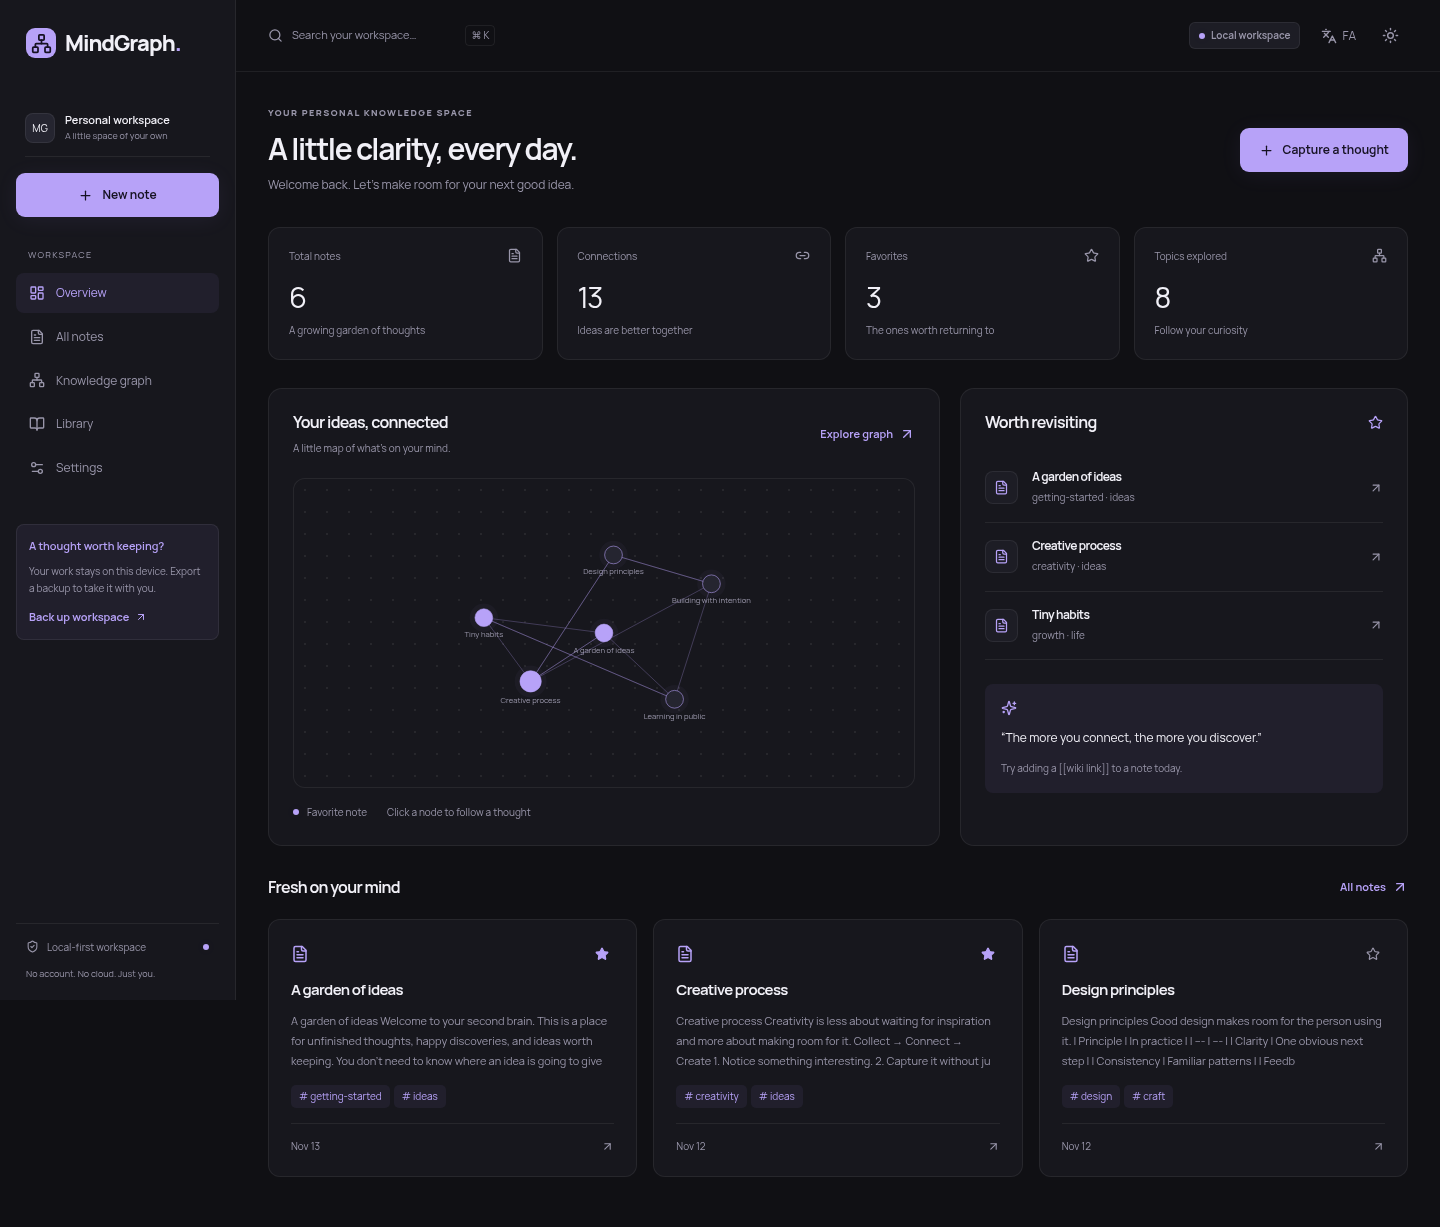
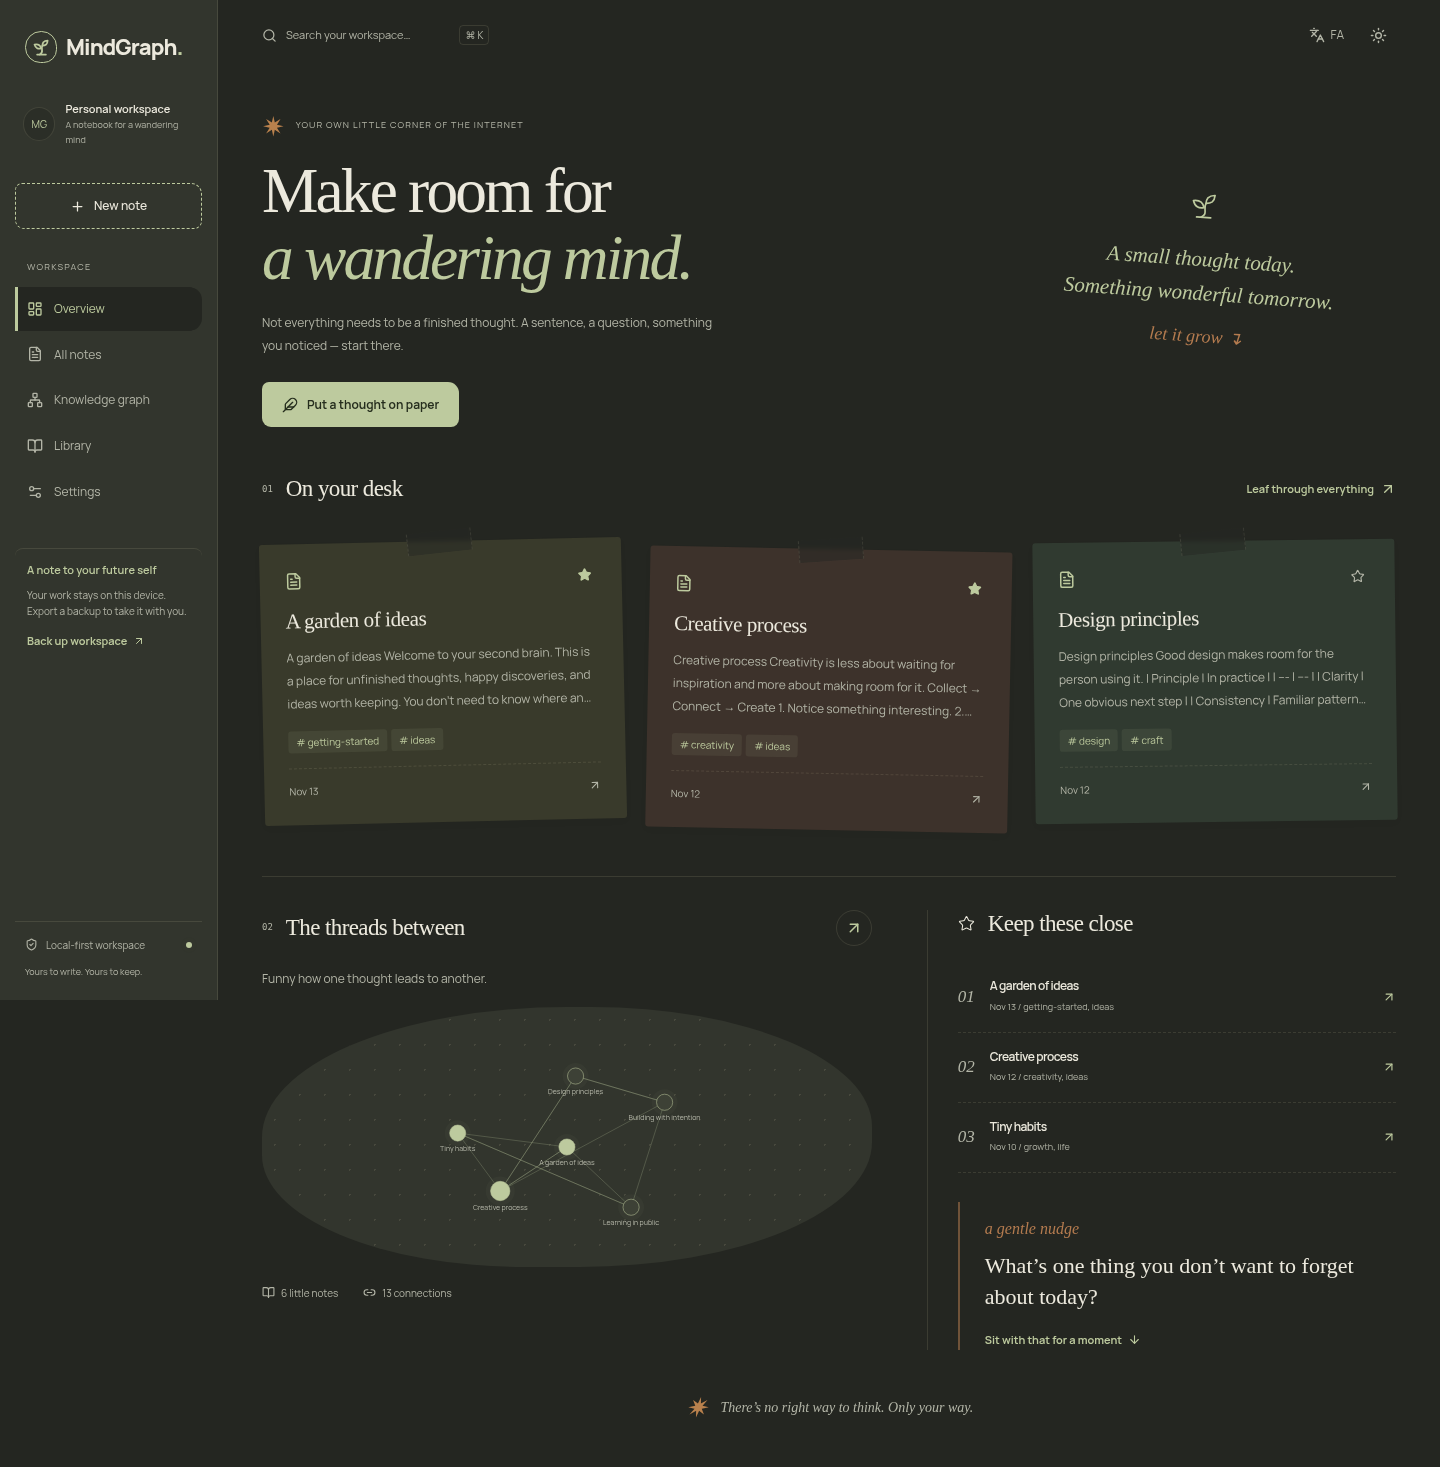
docs: capture the notebook identity across themes and screen sizes

diff --git a/docs/VALIDATION.md b/docs/VALIDATION.md
@@ -15,3 +15,7 @@ Verified on Node.js 24.22.1 with npm 11.9.0 and system Chromium.
 Browser tests exercised the production server in this environment. The Playwright configuration can also start a development server for CI or local use. Screenshots in this folder's `screenshots` directory were captured from the running product, including Persian/RTL, light theme, desktop, and mobile views.
 
 The GitHub Actions workflow is committed; its remote run status has not been verified because access to `api.github.com` is blocked by the environment network policy. Git pushes to `main` are supported separately. The GitHub Projects script passed syntax and dry-run checks, but its remote preflight returned `Forbidden`; no remote Project creation is claimed. Enable the saved API network rule and retry with usable Projects authentication.
+
+## Design refresh
+
+The landing and dashboard were redesigned with independent visual identities. Confirmed 48 combined landing/dashboard layouts across English/Persian, light/dark, and 360/768/1440 px widths without document overflow. The new screenshots are generated with explicit stored preferences so light/dark filenames remain accurate regardless of each app’s defaults. See [Design](DESIGN.md) for the product-specific decisions.

diff --git a/docs/DESIGN.md b/docs/DESIGN.md
@@ -1,0 +1,7 @@
+# A notebook, with room in the margins
+
+MindGraph uses warm paper, sage ink, serif English headings, and Vazirmatn for Persian. The default theme is light; an existing saved dark preference is respected. The dashboard opens with a writing invitation, followed by paper notes with subtle tape/rotation, a connection garden, and bookmarked notes. Counts live beside the graph, rather than in an analytics-card row.
+
+The landing page uses an illustrated notebook collage, editorial numbered sections, and a personal invitation to write. Dark mode uses warm charcoal and muted paper tones. Mobile stacks the notes; RTL mirrors the layout while note text uses its own writing direction.
+
+Reusable editing, library, settings, and graph surfaces inherit the same ink/paper tokens. The independent `identity.css` layer sits between component styles and Tailwind utilities, so utilities retain predictable priority. No external illustration or font service is needed.

diff --git a/README.md b/README.md
@@ -6,11 +6,11 @@
 
 A local-first personal knowledge base with Markdown, wiki links, and an interactive knowledge graph.
 
-[Features](#features) · [Getting started](#getting-started) · [Architecture](docs/ARCHITECTURE.md) · [فارسی](docs/README.fa.md)
+[Features](#features) · [Getting started](#getting-started) · [Design](docs/DESIGN.md) · [Architecture](docs/ARCHITECTURE.md) · [فارسی](docs/README.fa.md)
 
 ![Next.js](https://img.shields.io/badge/Next.js-16-17171d?logo=nextdotjs) ![TypeScript](https://img.shields.io/badge/TypeScript-strict-3178C6?logo=typescript) ![Tailwind CSS](https://img.shields.io/badge/Tailwind-4-38bdf8?logo=tailwindcss)
 
-![MindGraph workspace](docs/screenshots/dashboard-dark.png)
+![MindGraph workspace](docs/screenshots/dashboard-light.png)
 
 </div>
 
